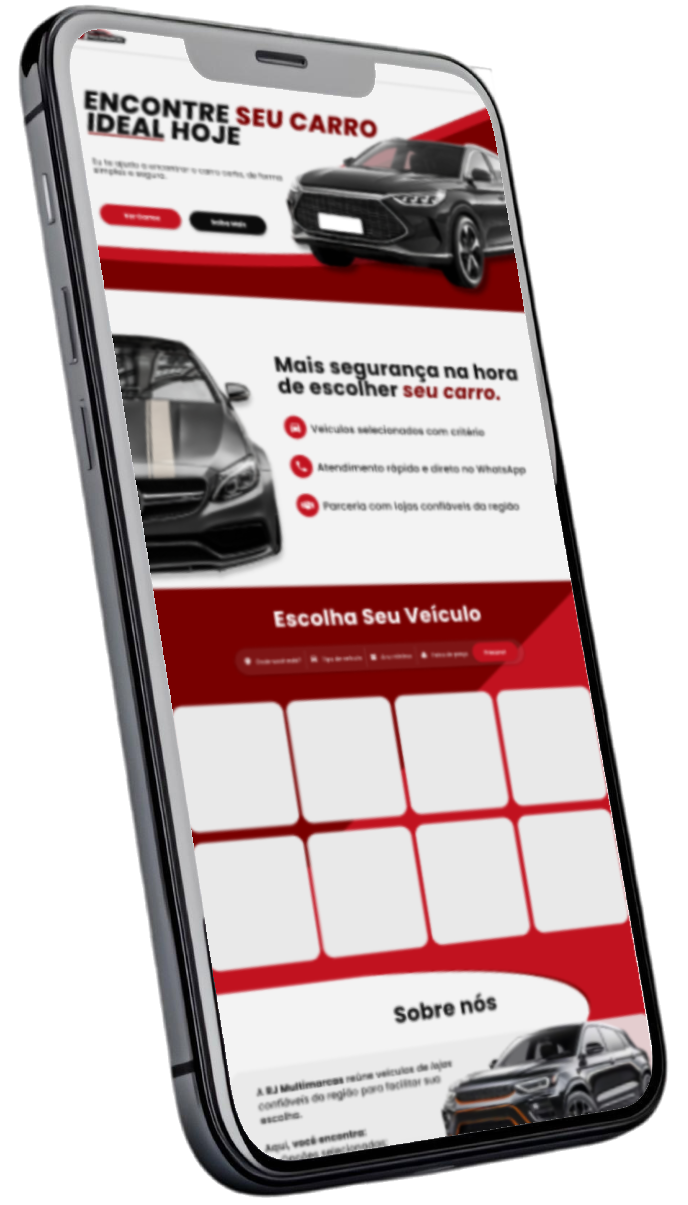
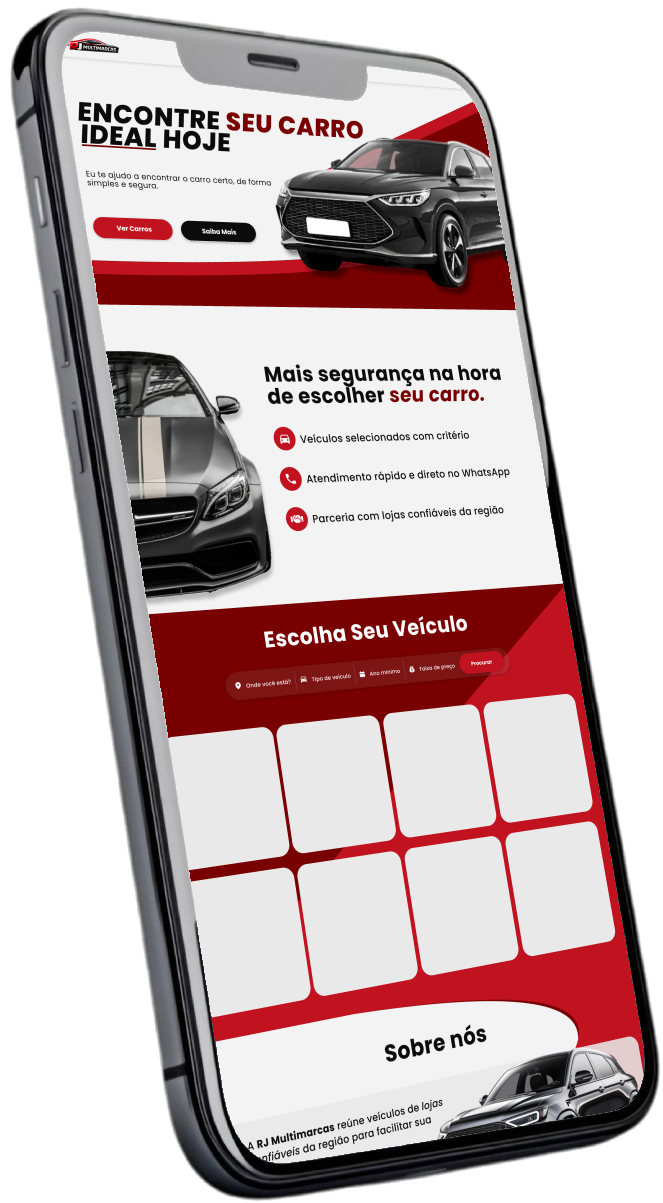
.

Changed region(s): [[0.0, 0.0, 0.9955, 1.0]]

diff --git a/style.css b/style.css
@@ -1174,7 +1174,7 @@ h1,
 
   .strategy-text h2 {
     font-size: 28px;
-    line-height: 0.95;
+    line-height: 1.2;
   }
 
   .strategy-text p {
@@ -1398,3 +1398,190 @@ h1,
 .solution-card:nth-child(3) { transition-delay: 0.25s; }
 .solution-card:nth-child(4) { transition-delay: 0.35s; }
 .solution-card:nth-child(5) { transition-delay: 0.45s; }
+
+/* RESPONSIVO DA SECTION SOLUÇÕES */
+@media (max-width: 900px) {
+  .solutions-section {
+    padding: 70px 28px;
+  }
+
+  .solutions-title {
+    font-size: clamp(26px, 6vw, 36px);
+    line-height: 1;
+    margin-bottom: 42px;
+  }
+
+  .solutions-grid {
+    grid-template-columns: 1fr 1fr;
+    max-width: 680px;
+    gap: 22px;
+  }
+
+  .solution-card {
+    grid-column: auto !important;
+    height: auto;
+    min-height: 210px;
+  }
+}
+
+@media (max-width: 600px) {
+  .solutions-section {
+    padding: 60px 20px;
+  }
+
+  .solutions-title {
+    font-size: 28px;
+    line-height: 0.95;
+  }
+
+  .solutions-grid {
+    grid-template-columns: 1fr;
+    max-width: 360px;
+  }
+
+  .solution-card {
+    min-height: auto;
+    padding: 26px 22px;
+  }
+
+  .solution-card h3 {
+    font-size: 20px;
+  }
+
+  .solution-card p {
+    font-size: 14px;
+    line-height: 1.18;
+  }
+}
+
+.impact-section {
+  width: 100%;
+  padding: 90px 40px;
+  color: var(--color-light);
+}
+
+.impact-container {
+  position: relative;
+  max-width: 1000px;
+  min-height: 330px;
+  margin: 0 auto;
+
+  border: 1px solid #fff0c2;
+  border-radius: 12px;
+  background: rgba(112, 112, 112, 0.20);
+
+  padding: 45px 55px 90px;
+  overflow: visible;
+}
+
+.impact-image {
+  position: absolute;
+  left: 80px;
+  top: -45px;
+}
+
+.impact-image img {
+  width: 210px;
+  transform: rotate(-7deg);
+  filter: drop-shadow(0 25px 35px rgba(0,0,0,0.45));
+}
+
+.impact-content {
+  max-width: 430px;
+  margin-left: auto;
+  text-align: right;
+}
+
+.impact-content h2 {
+  font-size: clamp(26px, 3vw, 38px);
+  line-height: 0.92;
+  font-weight: 900;
+  margin-bottom: 16px;
+}
+
+.impact-content h2 span {
+  color: var(--color-primary);
+}
+
+.impact-content p {
+  font-size: 14px;
+  line-height: 1.05;
+}
+
+.impact-stats {
+  position: absolute;
+  left: 25px;
+  right: 25px;
+  bottom: -32px;
+
+  background: var(--color-light);
+  color: var(--color-secondary);
+  border-radius: 14px;
+
+  display: grid;
+  grid-template-columns: repeat(4, 1fr);
+  gap: 12px;
+
+  padding: 22px 25px;
+  box-shadow: 0 18px 30px rgba(0,0,0,0.22);
+}
+
+.stat-item {
+  text-align: center;
+}
+
+.stat-item strong {
+  display: block;
+  font-size: 42px;
+  font-weight: 900;
+  line-height: 0.9;
+}
+
+.stat-item p {
+  max-width: 130px;
+  margin: 6px auto 0;
+  font-size: 11px;
+  font-weight: 700;
+  line-height: 0.95;
+}
+
+@media (max-width: 850px) {
+  .impact-container {
+    padding: 230px 28px 120px;
+  }
+
+  .impact-image {
+    left: 50%;
+    transform: translateX(-50%);
+    top: -35px;
+  }
+
+  .impact-content {
+    margin: 0 auto;
+    text-align: center;
+  }
+
+  .impact-stats {
+    grid-template-columns: repeat(2, 1fr);
+    bottom: -80px;
+  }
+}
+
+@media (max-width: 480px) {
+  .impact-section {
+    padding: 70px 18px 130px;
+  }
+
+  .impact-image img {
+    width: 180px;
+  }
+
+  .impact-stats {
+    grid-template-columns: 1fr;
+    position: relative;
+    left: auto;
+    right: auto;
+    bottom: auto;
+    margin-top: 35px;
+  }
+}

diff --git a/index.html b/index.html
@@ -247,6 +247,51 @@
 
   </div>
 </section>
+
+<section class="impact-section">
+  <div class="impact-container">
+
+    <div class="impact-image">
+      <img src="img/tablet.png" alt="Preview do site">
+    </div>
+
+    <div class="impact-content">
+      <h2>
+        O <span>impacto</span> de um site<br>
+        bem construído no<br>
+        seu negócio
+      </h2>
+
+      <p>
+        Se seu site não transmite confiança e clareza, você perde clientes antes
+        mesmo do contato. Um site estratégico muda isso e transforma visitas em vendas.
+      </p>
+    </div>
+
+    <div class="impact-stats">
+      <div class="stat-item">
+        <strong><span class="counter" data-target="75">0</span>%</strong>
+        <p>julgam a credibilidade pelo design</p>
+      </div>
+
+      <div class="stat-item">
+        <strong><span class="counter" data-target="94">0</span>%</strong>
+        <p>da primeira impressão vem do visual</p>
+      </div>
+
+      <div class="stat-item">
+        <strong><span class="counter" data-target="88">0</span>%</strong>
+        <p>não voltam após má experiência</p>
+      </div>
+
+      <div class="stat-item">
+        <strong><span class="counter" data-target="70">0</span>%</strong>
+        <p>das empresas não têm um site otimizado</p>
+      </div>
+    </div>
+
+  </div>
+</section>
   <script src="script.js"></script>
 </body>
 </html>

diff --git a/script.js b/script.js
@@ -68,3 +68,41 @@ const showSolutionCards = () => {
 
 window.addEventListener("scroll", showSolutionCards);
 window.addEventListener("load", showSolutionCards);
+
+const counters = document.querySelectorAll(".counter");
+
+const animateCounter = (counter) => {
+  const target = Number(counter.dataset.target);
+  let current = 0;
+  const duration = 1400;
+  const stepTime = 16;
+  const increment = target / (duration / stepTime);
+
+  const update = () => {
+    current += increment;
+
+    if (current < target) {
+      counter.textContent = Math.floor(current);
+      requestAnimationFrame(update);
+    } else {
+      counter.textContent = target;
+    }
+  };
+
+  update();
+};
+
+const counterObserver = new IntersectionObserver((entries) => {
+  entries.forEach((entry) => {
+    if (entry.isIntersecting && !entry.target.dataset.animated) {
+      entry.target.dataset.animated = "true";
+      animateCounter(entry.target);
+    }
+  });
+}, {
+  threshold: 0.4
+});
+
+counters.forEach((counter) => {
+  counterObserver.observe(counter);
+});
